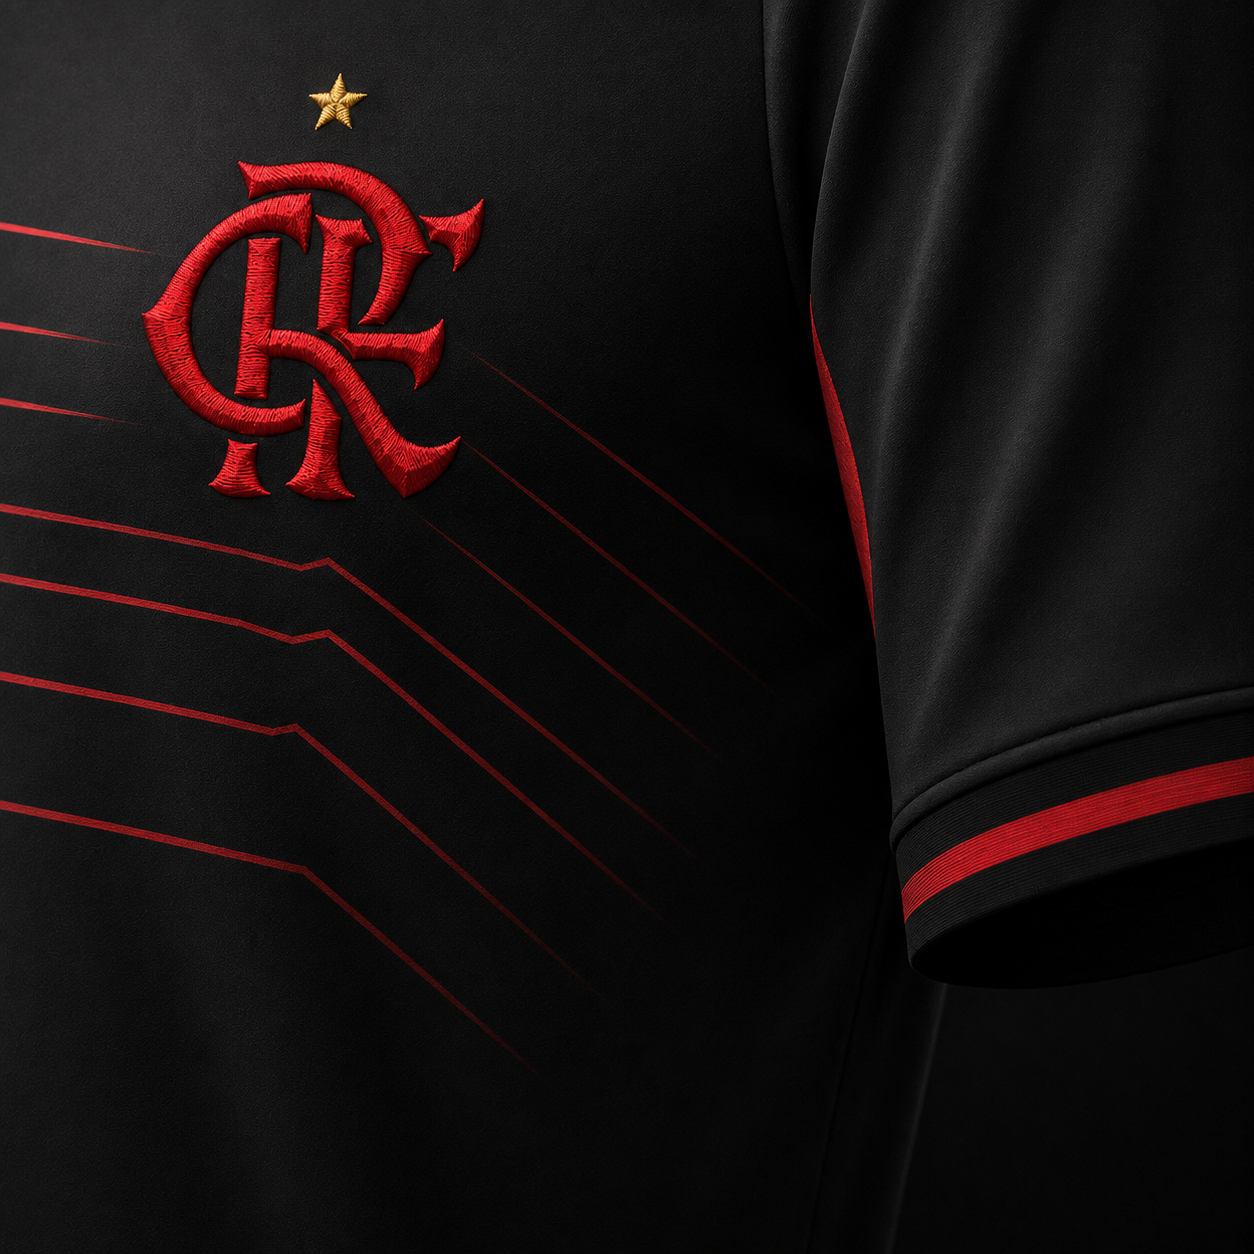
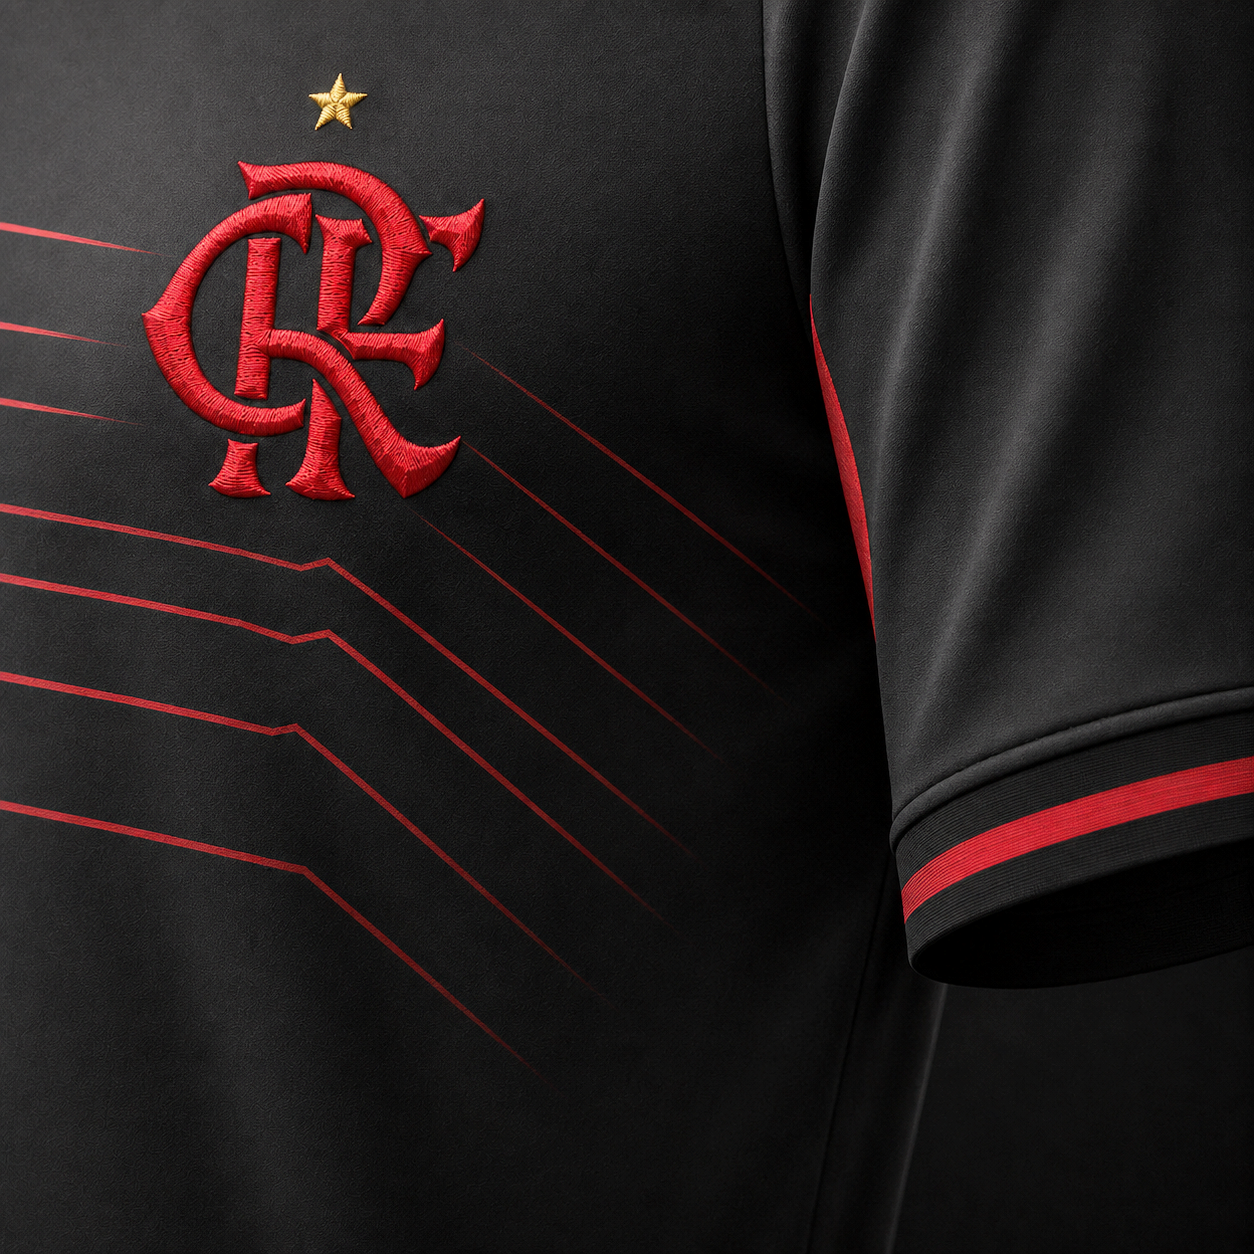
fotos clareadas e card de fotos com fundo branco

diff --git a/index.html b/index.html
@@ -1,4 +1,8 @@
-<!doctype html><html lang="pt-BR"><head><meta charset="utf-8"><meta name="viewport" content="width=device-width,initial-scale=1"><meta name="theme-color" content="#050505"><title>Manto Monumental — Pedidos</title><meta name="description" content="Faça seu pedido do Manto Monumental."><link rel="preconnect" href="https://fonts.googleapis.com"><link rel="preconnect" href="https://fonts.gstatic.com" crossorigin><link href="https://fonts.googleapis.com/css2?family=Inter:wght@400;500;600;700;800;900&family=Oswald:wght@500;600;700&display=swap" rel="stylesheet"><link rel="stylesheet" href="styles.css"></head><body>
+<!doctype html><html lang="pt-BR"><head><meta charset="utf-8"><meta name="viewport" content="width=device-width,initial-scale=1"><meta name="theme-color" content="#050505"><title>Manto Monumental — Pedidos</title><meta name="description" content="Faça seu pedido do Manto Monumental."><link rel="preconnect" href="https://fonts.googleapis.com"><link rel="preconnect" href="https://fonts.gstatic.com" crossorigin><link href="https://fonts.googleapis.com/css2?family=Inter:wght@400;500;600;700;800;900&family=Oswald:wght@500;600;700&display=swap" rel="stylesheet"><link rel="stylesheet" href="styles.css"><style>
+/* Fundo branco somente na área das imagens dos modelos */
+#modelos .model-carousel { background: #fff !important; }
+#modelos .model-slides { background: #fff !important; }
+</style></head><body>
 <header class="topbar"><div class="container topbar-inner"><a href="#inicio" class="logo logo-image-link" aria-label="Manto Monumental — Charles Kevin"><img src="assets/logo-charles-kevin.png" alt="Manto Monumental — Charles Kevin" class="site-logo-image"></a><nav><a href="#modelos">Modelos</a><a href="#pedido">Pedido</a><a href="#conceito">Conceito</a><a href="#pedido" class="nav-cta">Fazer pedido</a></nav></div></header>
 <main>
 <section id="inicio" class="hero hero-carousel hero-v5">
